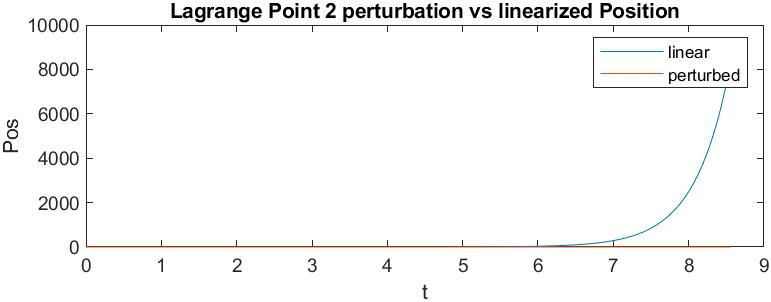
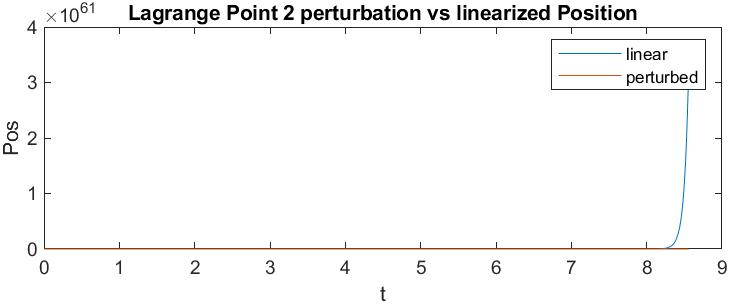
changed initial conditions of linearizer to plot from the delta x point not L2 or L4

diff --git a/AERSP304_Proj1.m b/AERSP304_Proj1.m
@@ -21,15 +21,16 @@ YI(i) = sin(t(i))*x(i,1)+cos(t(i))*x(i,2);
 end
 
 % Perturbed Solution
+initP = x0+perturbation';
 options = odeset('reltol',1e-12,'abstol',1e-12);
-[t,xP] = ode45(@(t,x) odefun(t,x,MU1), t, x0+perturbation' , options);
+[t,xP] = ode45(@(t,x) odefun(t,x,MU1), t, initP, options);
 xP = x - xP ;
 departX(:,1) = sqrt(xP(:,1).^2+xP(:,2).^2);
 departX(:,2) = sqrt(xP(:,3).^2+xP(:,4).^2);
 
 
 % linearized
-[linPos,linVel] = linearizer(1.15568, 0, t, MU1, pnts, perturbation) ;
+[linPos,linVel] = linearizer(initP(1), initP(2), t, MU1, pnts, perturbation) ;
  
 
 % plots nominal for L2 in B frame
@@ -110,14 +111,15 @@ YI(i) = sin(t(i))*x(i,1)+cos(t(i))*x(i,2);
 end
 
 % Perturbed Solution
+initP = x0'+perturbation';
 options = odeset('reltol',1e-12,'abstol',1e-12);
-[t,xP] = ode45(@(t,x) odefun(t,x,MU1), t, x0'+perturbation' , options);
+[t,xP] = ode45(@(t,x) odefun(t,x,MU1), t, initP , options);
 xP = x - xP ;
 departX(:,1) = sqrt(xP(:,1).^2+xP(:,2).^2);
 departX(:,2) = sqrt(xP(:,3).^2+xP(:,4).^2);
 
 % Linearized
-[linPos,linVel] = linearizer(0.5-MU1, sqrt(3)/2 , t, MU1, pnts, perturbation) ;
+[linPos,linVel] = linearizer(initP(1), initP(2) , t, MU1, pnts, perturbation) ;
 
 % plots nominal for L4 in B frame
 figure
